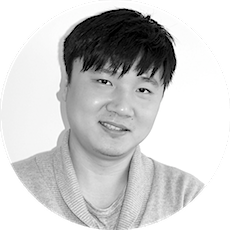
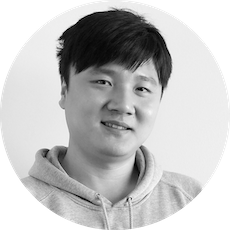
change
change

Changed region(s): [[0.0304, 0.0304, 0.8826, 1.0], [0.0, 0.6087, 0.0304, 0.6391]]

diff --git a/portfolio.html b/portfolio.html
@@ -44,7 +44,7 @@
 				</div>
 			</div>
 			<div class="topPic">
-				<img src="img/icon/picture001.jpg" width="100%" height="100%">
+				<img src="img/entertainmentCenter.jpg" width="100%" height="100%">
 			</div>
 			<div class="description" style="background-color:#a7a9ab;padding-bottom:120px;">
 				<h2 style="color:#eeedee">OUR CLIENTS</h2>
@@ -124,8 +124,6 @@
 						<h3 class="staff wayne"><img src="img/wayne.png" width="75" height="75"></h3>
 						<p>Jurlique is one of our newly engaged clients. I AGE MEDIA is so proud to be the chosen Chinese media partner with Jurlique, one of the most well-known Australian brand in the world.</p>   
 						<p>Through a series of social media campaign, we have archived great results for this campaign and successfully aroused the interest in the Chinese community.  In this particular campaign, Jurlique Rundle Mall store have SOLD OUT most of its products on the first day of the promotion.</p>
-						<a class="readmore" style="color:#a7a9ab" id="popup">READ MORE</a>
-						<div style="display:none;" id="popupwindow"><img src="img/popup_window001.png" width="800" height="800"></div>
 					</div>
 				</div> 
 			</section>
@@ -135,10 +133,8 @@
 					<h3><img src="img/c2.jpg" class="img-responsive pimg" alt="Responsive image"></h3>
 					<div class="rest">
 					<h3 class="portfolio">ANZ BANK</h3>
-					<h3 class="staff">Staff&nbsp;&nbsp;<img src="img/person.png" width="75" height="75">&nbsp;&nbsp;Staff</h3>
+					<h3 class="staff wayne"><img src="img/wayne.png" width="75" height="75"></h3>
 					<p>ANZ Bank has been a long-term client and supporter of I AGE MEDIA since 2008. Through all these years, we have helped ANZ Bank and its Gouger St. Branch to reach more customers in Chinese community and maintain a very sustainable relationship with the Chinese community. </p>
-					<a class="readmore" style="color:#a7a9ab" id="popup">READ MORE</a>
-					<div style="display:none;" id="popupwindow"><img src="img/popup_window001.png" width="800" height="800"></div>
 				</div>
 				</div> 
 			</section>
@@ -148,10 +144,8 @@
 					<h3><img src="img/c3.jpg" class="img-responsive pimg" alt="Responsive image"></h3>
 					<div class="rest">
 					<h3 class="portfolio">TELSTRA</h3>
-					<h3 class="staff">Staff&nbsp;&nbsp;<img src="img/person.png" width="75" height="75">&nbsp;&nbsp;Staff</h3>
+					<h3 class="staff wayne"><img src="img/wayne.png" width="75" height="75"></h3>
 					<p>I AGE MEDIA is delighted to be a part of TELSTRA’s ethnic community campaign. During the last couple of years, we have done a number of successful campaigns together with Telstra towards Chinese community.</p>
-					<a class="readmore" style="color:#a7a9ab" id="popup">READ MORE</a>
-					<div style="display:none;" id="popupwindow"><img src="img/popup_window001.png" width="800" height="800"></div>
 				</div>
 				</div> 
 			</section>
@@ -161,10 +155,8 @@
 					<h3><img src="img/c4.jpg" class="img-responsive pimg" alt="Responsive image"></h3>
 					<div class="rest">
 					<h3 class="portfolio">ADELAIDE BMW</h3>
-					<h3 class="staff">Staff&nbsp;&nbsp;<img src="img/person.png" width="75" height="75">&nbsp;&nbsp;Staff</h3>
+					<h3 class="staff wayne"><img src="img/wayne.png" width="75" height="75"></h3>
 					<p>Chinese customer is one of Adelaide BMW’s major customer group, we have managed to deliver Adelaide BMW’s corporate branding and sales promotions successfully to its targeting customer base.</p>
-					<a class="readmore" style="color:#a7a9ab" id="popup">READ MORE</a>
-					<div style="display:none;" id="popupwindow"><img src="img/popup_window001.png" width="800" height="800"></div>
 				</div>
 				</div> 
 			</section>
@@ -174,10 +166,8 @@
 					<h3><img src="img/c5.jpg" class="img-responsive pimg" alt="Responsive image"></h3>
 					<div class="rest">
 					<h3 class="portfolio">JR DUTY FREE </h3>
-					<h3 class="staff">Staff&nbsp;&nbsp;<img src="img/person.png" width="75" height="75">&nbsp;&nbsp;Staff</h3>
+					<h3 class="staff wayne"><img src="img/wayne.png" width="75" height="75"></h3>
 					<p>Our relationship with JR Duty Free started in 2009. In the last 5 years, we have worked closely with JR Duty Free and delivered many successful sales campaign and VIP events.</p>
-					<a class="readmore" style="color:#a7a9ab" id="popup">READ MORE</a>
-					<div style="display:none;" id="popupwindow"><img src="img/popup_window001.png" width="800" height="800"></div>
 				</div>
 				</div> 
 			</section>
@@ -187,10 +177,8 @@
 					<h3><img src="img/c6.jpg" class="img-responsive pimg" alt="Responsive image"></h3>
 					<div class="rest">
 					<h3 class="portfolio">UNIQUE OPAL &amp; DIAMOND </h3>
-					<h3 class="staff">Staff&nbsp;&nbsp;<img src="img/person.png" width="75" height="75">&nbsp;&nbsp;Staff</h3>
+					<h3 class="staff wayne"><img src="img/wayne.png" width="75" height="75"></h3>
 					<p>Unique Opal &amp; Diamond is another local client of ours. We are pleased to work together to promote its amazing Australian Opal products to the Chinese community.</p>
-					<a class="readmore" style="color:#a7a9ab" id="popup">READ MORE</a>
-					<div style="display:none;" id="popupwindow"><img src="img/popup_window001.png" width="800" height="800"></div>
 				</div>
 				</div> 
 			</section>
@@ -200,10 +188,8 @@
 					<h3><img src="img/c7.jpg" class="img-responsive pimg" alt="Responsive image"></h3>
 					<div class="rest">
 					<h3 class="portfolio">SA STATE GOVERNMENT</h3>
-					<h3 class="staff">Staff&nbsp;&nbsp;<img src="img/person.png" width="75" height="75">&nbsp;&nbsp;Staff</h3>
+					<h3 class="staff wayne"><img src="img/wayne.png" width="75" height="75"></h3>
 					<p>I  AGE  MEDIA is  one  of the  major  media  Channel  for  South  Australia  State Government to connect with Chinese community. In the past years, we have done may media campaigns for State Government. </p>
-					<a class="readmore" style="color:#a7a9ab" id="popup">READ MORE</a>
-					<div style="display:none;" id="popupwindow"><img src="img/popup_window001.png" width="800" height="800"></div>
 				</div>
 				</div> 
 			</section>
@@ -213,10 +199,8 @@
 					<h3><img src="img/c8.jpg" class="img-responsive pimg" alt="Responsive image"></h3>
 					<div class="rest">
 					<h3 class="portfolio">SA STATE GOVERNMENT</h3>
-					<h3 class="staff">Staff&nbsp;&nbsp;<img src="img/person.png" width="75" height="75">&nbsp;&nbsp;Staff</h3>
+					<h3 class="staff wayne"><img src="img/wayne.png" width="75" height="75"></h3>
 					<p>I AGE MEDIA is one of the major media channel for South Australia State Government to connect with the Chinese community. In the past years, we have done many media campaigns for State Government.</p>
-					<a class="readmore" style="color:#a7a9ab" id="popup">READ MORE</a>
-					<div style="display:none;" id="popupwindow"><img src="img/popup_window001.png" width="800" height="800"></div>
 				</div>
 				</div> 
 			</section>
@@ -226,10 +210,8 @@
 					<h3><img src="img/c9.jpg" class="img-responsive pimg" alt="Responsive image"></h3>
 					<div class="rest">
 					<h3 class="portfolio">FOREX CT</h3>
-					<h3 class="staff">Staff&nbsp;&nbsp;<img src="img/person.png" width="75" height="75">&nbsp;&nbsp;Staff</h3>
+					<h3 class="staff wayne"><img src="img/wayne.png" width="75" height="75"></h3>
 					<p>Forex CT is one of our interstate clients. We assisted this client to promote its campaign and develop Adelaide customers by using our print and online media channels.</p>
-					<a class="readmore" style="color:#a7a9ab" id="popup">READ MORE</a>
-					<div style="display:none;" id="popupwindow"><img src="img/popup_window001.png" width="800" height="800"></div>
 				</div>
 				</div> 
 			</section>

diff --git a/iagemedia.html b/iagemedia.html
@@ -43,7 +43,7 @@
 				</div>
 			</div>
 			<div class="topPic">
-				<img src="img/icon/picture001.jpg" width="100%" height="100%">
+				<img src="img/entertainmentCenter.jpg" width="100%" height="100%">
 			</div>
 			<div class="description" style="background-color:#f05a22;">
 				<h2 style="color:#eeedee">I AGE MEDIA</h2>
@@ -121,6 +121,7 @@
 									<img src="img/iageweeklypopup.jpg" class="img-responsive">
 								</div>
 								<div class="popuptext col-md-4" style="color:white;background-color:#2e2e2e;">
+									<br>
 									<h3>iAge Weekly</h3>
 									<br>
 									<p><b>Featured Columns:</b></p>
@@ -145,9 +146,6 @@
 									<p>&nbsp;&nbsp;Publish on every Friday</p>
 									<p>&nbsp;&nbsp;Distribution of 8000 copies per issue</p>
 									<p>&nbsp;&nbsp;Free publication</p>
-									<br>
-									<br>
-									<br>
 									<br>
 									<br>
 									<br>
@@ -235,6 +233,7 @@
 									<img src="img/businessweeklypopup.jpg" class="img-responsive">
 								</div>
 								<div class="popuptext col-md-4" style="color:white;background-color:#2e2e2e;">
+									<br>
 									<h3>Business Weekly</h3>
 									<br>
 									<p><b>Featured Columns:</b></p>
@@ -253,8 +252,6 @@
 									<p>&nbsp;&nbsp;Publish on every Friday</p>
 									<p>&nbsp;&nbsp;Distribution of 8000 copies per issue</p>
 									<p>&nbsp;&nbsp;Free publication</p>
-									<br>
-									<br>
 									<br>
 									<br>
 									<br>
@@ -348,6 +345,7 @@
 									<img src="img/propertyweeklypopup.jpg" class="img-responsive">
 								</div>
 								<div class="popuptext col-md-4" style="color:white;background-color:#2e2e2e;">
+									<br>
 									<h3>Property Weekly</h3>
 									<br>
 									<p><b>Featured Columns:</b></p>
@@ -362,7 +360,6 @@
 									<p>&nbsp;&nbsp;Publish on every Friday</p>
 									<p>&nbsp;&nbsp;Distribution of 8000 copies per issue</p>
 									<p>&nbsp;&nbsp;Free publication</p>
-									<br>
 									<br>
 									<br>
 									<br>
@@ -453,9 +450,10 @@
 							</style>
 							<div class="row">
 								<div class="popupimage col-md-8" style="padding:0px;">
-									<img src="img/sachinesepopup.png" class="img-responsive">
+									<img src="img/sachinesepopup.jpg" class="img-responsive">
 								</div>
 								<div class="popuptext col-md-4" style="color:white;background-color:#2e2e2e;">
+									<br>
 									<h3>SAChinese.com</h3>
 									<br>
 									<p><b>Featured Columns:</b></p>
@@ -497,7 +495,6 @@
 									<br>
 									<br>
 									<br>
-									<br>
 									<p class="hyperlink"><a href="http://sachinese.com" style="color:#DC143C;">Visit the site</a></p>
 									<p class="hyperlink"><a href="/" style="color:#DC143C">Readership Breakdown</a></p>
 									<p class="hyperlink"><a href="https://www.dropbox.com/s/mo8q13fr21u3kck/2014%20iAge%20Media%20Online%20Media%20Kit.pdf" style="color:#DC143C;">Media Kit Download</a></p>
@@ -506,7 +503,7 @@
 						</div>
 						<div class="container mobile">
 							<div class="row">
-								<div class="col-xs-12"><img src="img/sachinesepopup.png" class="img-responsive"></div>
+								<div class="col-xs-12"><img src="img/sachinesepopup.jpg" class="img-responsive"></div>
 								<div class="col-xs-12" style="color:white;background-color:#2e2e2e;">
 									<h3>SAChinese.com</h3>
 									<br>
@@ -585,13 +582,16 @@
 							<div class="row">
 								<div class="popupimage col-md-4" style="padding:0px;">
 									<br>
+									<br>
 									<img src="img/wechatpopup.png" class="img-responsive">
 								</div>
 								<div class="popupimage col-md-4" style="padding:0px;">
 									<br>
+									<br>
 									<img src="img/weibopopup.png" class="img-responsive">
 								</div>
 								<div class="popuptext col-md-4" style="color:white;background-color:#2e2e2e;">
+									<br>
 									<h3>TodayAdelaide</h3>
 									<br>
 									<p><b>Featured Columns:</b></p>
@@ -619,6 +619,8 @@
 									<p>&nbsp;&nbsp;- WeChat Subscription Account ID: TodayAdelaide</p>
 									<p>&nbsp;&nbsp;- Weibo : <a href="http://www.weibo.com/sachinese" style="color:white;">www.weibo.com/sachinese</a></p>
 									<p class="hyperlink"><a href="hhttps://www.dropbox.com/s/mo8q13fr21u3kck/2014%20iAge%20Media%20Online%20Media%20Kit.pdf" style="color:#94C944;">Media Kit Download</a></p>
+									<br>
+									<br>
 								</div>
 							</div>
 						</div>

diff --git a/iagecreative.html b/iagecreative.html
@@ -44,7 +44,7 @@
 				</div>
 			</div>
 			<div class="topPic">
-				<img src="img/icon/picture001.jpg" width="100%" height="100%">
+				<img src="img/entertainmentCenter.jpg" width="100%" height="100%">
 			</div>
 			<div class="description" style="background-color:#3ca642;">
 				<h2 style="color:#eeedee">I AGE CREATIVE</h2>
@@ -102,7 +102,6 @@
 						<p style="text-align:center;font-size:25px;font-family :  'RockwellBold';">You don't have time to prepare a marketing plan?</p> 
 						<p style="text-align:center;font-size:25px;font-family :  'RockwellBold';">Don't worry. We do.</p>
 					</div>
-					<div style="display:none;" id="popupwindow"><img src="img/popup_window001.png" width="800" height="800"></div>
 				</div> 
 			</section>
 			<section id="production">
@@ -118,7 +117,6 @@
 						We achieve the highest level of customer satisfaction by meeting all printing, copying and photography needs and quality publications in the most cost effective, economical, and timely fashion.
 
 					</div>
-					<div style="display:none;" id="popupwindow"><img src="img/popup_window001.png" width="800" height="800"></div>
 				</div> 			
 			</section>
 			<section id="adv">
@@ -131,7 +129,6 @@
 						<br><br>
 						We have the eyes and ears to make you stand out from other competing advertisements including press media, online media, social media and both Chinese and local mainstream media. We can arouse interest and create desire for readers to understand more, in order to prompt potential customers to take action to purchase or use the product or service.
 					</div>
-					<div style="display:none;" id="popupwindow"><img src="img/popup_window001.png" width="800" height="800"></div>
 				</div> 
 			</section>
 			<section id="pub">
@@ -144,7 +141,6 @@
 						<br><br>
 						We also have an extensive government, business and community network and resources to facilitate the creation and delivery of the marketing plan to the right audience.
 					</div>
-					<div style="display:none;" id="popupwindow"><img src="img/popup_window001.png" width="800" height="800"></div>
 				</div> 
 			</section>
 			<section id="event">
@@ -154,9 +150,16 @@
 					<br>
 					<div>
 						From commercial performance to community functions, we have managed to provide SA Chinese community a number of amazing events.
+						<br>
+						<br>
+						<p style="text-align:center;font-size:25px;font-family :  'RockwellBold';">Event Mnagement</p>
+						2008   iShow Singing Competition<br>
+						2009   iShow Singing Competition co-branded with TVB 8 Worldwide Singing Competition<br>
+						2009   Adelaide Zodiac Beauty Pageant<br> 
+						2010   iShow  singing  competition  co-branded  with  Happy  Boys  China  – Australia Audition<br> 
+						2012   iShow singing competition<br> 
+						2013   Beijing De Yun She Australia Tour - Adelaide<br>
 					</div>
-					<a class="readmore" style="color:#45b649;" id="popup">READ MORE</a>
-					<div style="display:none;" id="popupwindow"><img src="img/popup_window001.png" width="800" height="800"></div>
 				</div> 
 			</section>
 		</div>

diff --git a/index.html b/index.html
@@ -170,42 +170,42 @@
 					<div class="carousel-inner">
 						<div class="active item" id="item1">
 							<div class="staffimg">
-								<img src="img/ywf.png" class="img-responsive arrowdown" alt="Responsive image Staff Name"></img>
+								<img src="img/wayne.png" class="img-responsive arrowdown" alt="Responsive image Staff Name"></img>
 							</div>
 							<h4 class="staffname">Staff Name 1</h4>
 							<p class="jobtitle"><span>Job Title</span></p>
 						</div>
 						<div class="item" id="item2">
 							<div class="staffimg">
-								<img src="img/hyl.png" class="img-responsive arrowdown" alt="Responsive image Staff Name"></img>
+								<img src="img/william.png" class="img-responsive arrowdown" alt="Responsive image Staff Name"></img>
 							</div>
 							<h4 class="staffname">Staff Name 2</h4>
 							<p class="jobtitle"><span>Job Title</span></p>
 						</div>
 						<div class="item" id="item3">
 							<div class="staffimg">
-								<img src="img/cjh.png" class="img-responsive arrowdown" alt="Responsive image Staff Name"></img>
+								<img src="img/tracy.png" class="img-responsive arrowdown" alt="Responsive image Staff Name"></img>
 							</div>
 							<h4 class="staffname">Staff Name 3</h4>
 							<p class="jobtitle"><span>Job Title</span></p>
 						</div>
 						<div class="item" id="item4">
 							<div class="staffimg">
-								<img src="img/hsn.png" class="img-responsive arrowdown" alt="Responsive image Staff Name"></img>
+								<img src="img/norma.png" class="img-responsive arrowdown" alt="Responsive image Staff Name"></img>
 							</div>
 							<h4 class="staffname">Staff Name 4</h4>
 							<p class="jobtitle"><span>Job Title</span></p>
 						</div>
 						<div class="item" id="item5">
 							<div class="staffimg">
-								<img src="img/xyh.png" class="img-responsive arrowdown" alt="Responsive image Staff Name"></img>
+								<img src="img/gloria.png" class="img-responsive arrowdown" alt="Responsive image Staff Name"></img>
 							</div>
 							<h4 class="staffname">Staff Name 5</h4>
 							<p class="jobtitle"><span>Job Title</span></p>
 						</div>
 						<div class="item" id="item6">
 							<div class="staffimg">
-								<img src="img/person.png" class="img-responsive arrowdown" alt="Responsive image Staff Name"></img>
+								<img src="img/johnny.png" class="img-responsive arrowdown" alt="Responsive image Staff Name"></img>
 							</div>
 							<h4 class="staffname">Staff Name</h4>
 							<p class="jobtitle"><span>Job Title</span></p>

diff --git a/contact.html b/contact.html
@@ -64,7 +64,7 @@
 				<br>
 				<p style="font-size:17px;font-weight:300;color:#404041;">Level 2, 242 - 244 Franklin Street</p>
 				<p style="font-size:17px;font-weight:300;color:#404041;">Adelaide SA 5000, Australia</p>
-				<h3>Call Us : <a href="tel://08-8212-8008">08 8212 8008</a></h3>
+				<h3>Call Us : <a href="tel://08-8212-8008">+61 8 8212 8008</a></h3>
 				<br>
 				<p>General Enquires : <a href="mailto:info@iage.com.au">info@iage.com.au</a></p>
 				<p>Sales Enquires : <a href="mailto:sales@iage.com.au">advert@iage.com.au</a></p>

diff --git a/js/main.js b/js/main.js
@@ -22,7 +22,7 @@ $(document).ready(function() {
 
 			
 		$('.welcomepic').attr('style','height:'+welpicheight+'px;width:'+welpicwidth+'px;');
-		$('.welcomepic').css('background-image','url("img/homepagewelcomenew.jpg")');
+		$('.welcomepic').css('background-image','url("img/rundle.jpg")');
 		$('.welcomepic').css('background-size','100% 100%');
 		
 		var height_img_d;

diff --git a/css/desktop-level-two.css b/css/desktop-level-two.css
@@ -60,6 +60,9 @@ header #top-menu {
 header ul.navbar-nav {
 	float : right;
 }
+header .topPic {
+	padding-top: 64px;
+}
 header .description {
 	padding-top : 50px;
 }
